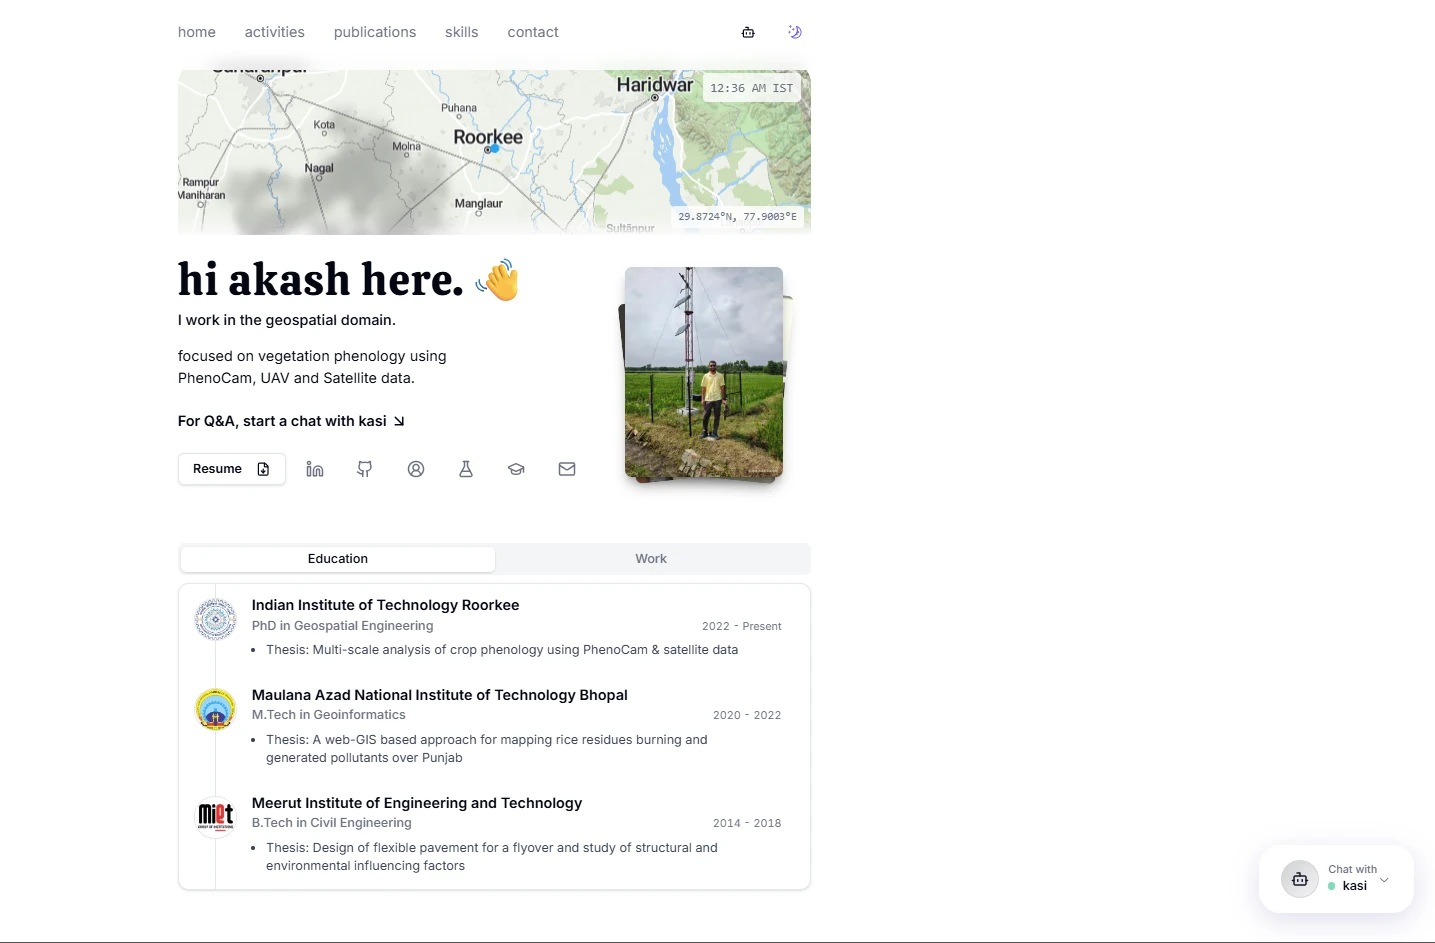
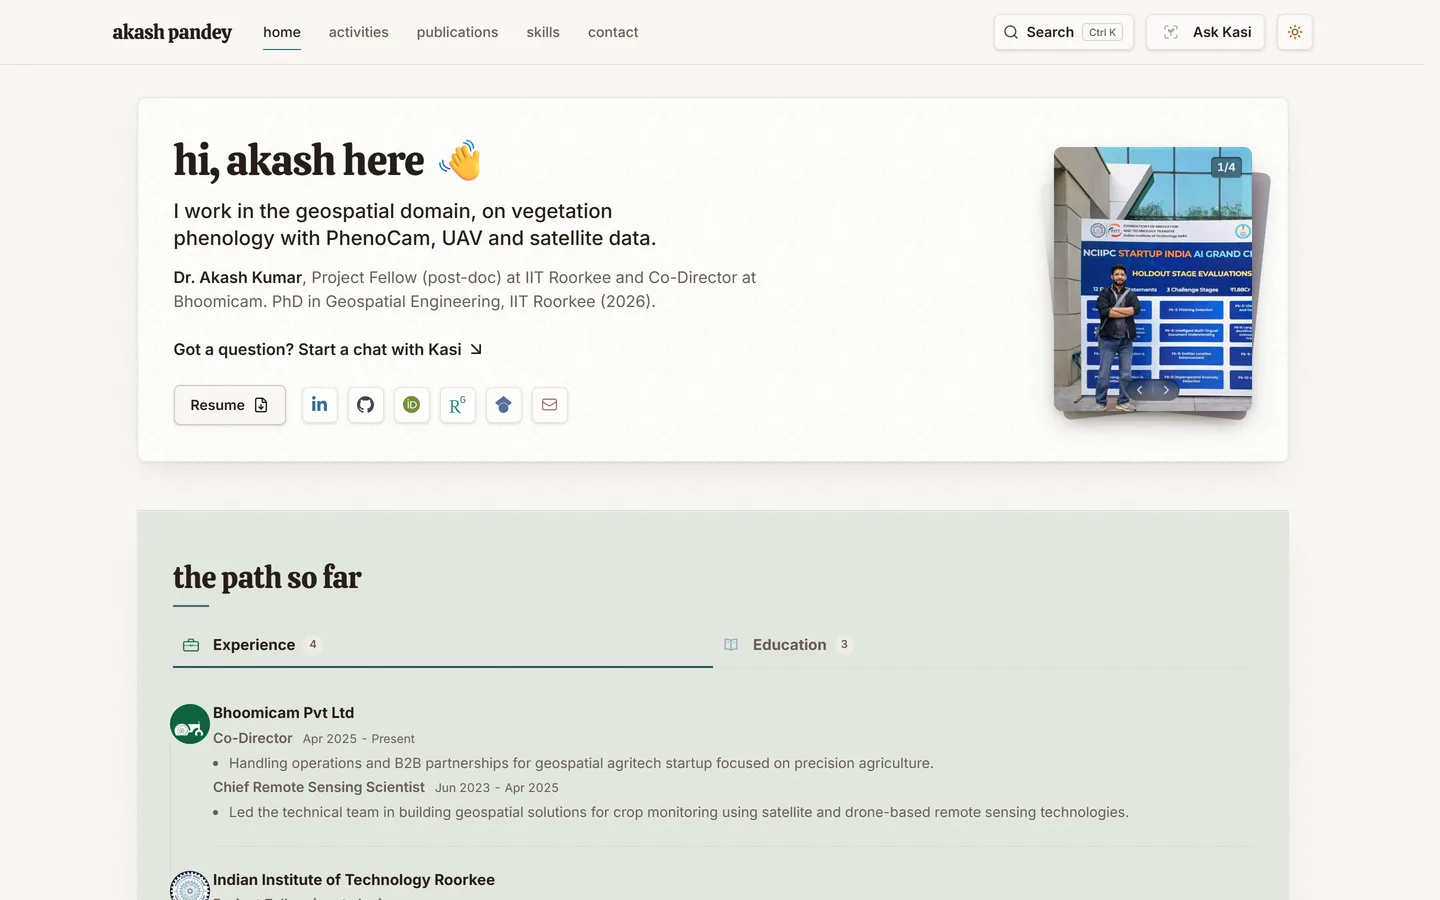
README, new screenshot and a TODO list

diff --git a/README.md b/README.md
@@ -8,23 +8,25 @@ Live at [www.akashpandey.com](https://www.akashpandey.com/)
 
 ## How it's built
 
-Next.js (App Router), React, Tailwind, TypeScript. Deployed on Vercel.
+Next.js (App Router), React, Tailwind, TypeScript. MapLibre for the contact
+map, three.js for the globe on the home page. Deployed on Vercel.
 
 Almost all the content sits in `src/data` as JSON or Markdown, and the photos
 and CV are plain files in `public`. That way I can add a paper or a field trip
 without opening a component. It's a bit old-fashioned compared to running a CMS,
-but I edit this thing at odd hours and I'd rather not manage a database for
-twenty JSON records.
+but I edit this thing at odd hours and I'd rather not manage a database for a
+hundred-odd JSON records.
 
 A few pieces that aren't obvious from the file tree:
 
-- The map on the contact page is MapLibre with OpenFreeMap vector tiles, plus
-  an Esri imagery layer behind the satellite toggle. It pins every activity,
-  school and job location alongside home, and the line it draws between you
-  and me is a great circle, not a route.
-- Kasi, the chat thing in the corner, answers from `src/data/profile.md` and
-  falls back to OpenRouter for anything it can't cover locally.
-- The contact form goes out through Resend.
+- The globe on the home page has a dot for every city I've studied, worked or
+  travelled to for work. Its land mask is baked into
+  `src/components/globe/land.ts`; rerun `node scripts/build-globe-land.mjs`
+  only if the dot grid changes.
+- The map on the contact page is MapLibre with OpenFreeMap vector tiles and Esri
+  satellite imagery underneath (on by default, there's a toggle). It pins every
+  activity, school and job location alongside home, and the line it draws
+  between you and me is a great circle, not a route.
 - The skill logos are generated. `scripts/colorize-skill-icons.mjs` builds a
   brand-coloured duotone of each one so a photo of a total station and a flat
   vector logo end up looking like they belong on the same page.
@@ -41,10 +43,10 @@ cp .env.example .env.local
 npm run dev
 ```
 
-`npm run dev` picks the first free port from 3000 up and prints it — I had
-something else squatting on 3000 for months and got tired of the collision. Set
-`PORT` if you want a specific one, or `npm run dev:lan` to reach it from your
-phone.
+`npm run dev` gets the photos and the map's worker files ready first, then picks
+the first free port from 3000 up and prints it — I had something else squatting
+on 3000 for months and got tired of the collision. Set `PORT` if you want a
+specific one, or `npm run dev:lan` to reach it from your phone.
 
 The pages all work with no keys at all. Kasi, the contact form and chat logging
 need the values listed in `.env.example`.
@@ -53,37 +55,84 @@ Before I push:
 
 ```bash
 npm run lint
+npm test          # unit tests (vitest)
 npm run build
 ```
 
-## Making it yours
+`npm run test:e2e` runs the Playwright tests on the installed Edge.
+
+## Content
 
 Fork it, then swap out:
 
-| What                         | Where                                             |
-| ---------------------------- | ------------------------------------------------- |
-| Papers, DOIs, figures        | `src/data/publications.json`                      |
-| Talks, trips, workshops      | `src/data/activities.json`                        |
-| Tools and instruments        | `src/data/skills.json`                            |
-| Timeline                     | `src/data/career.json`, `src/data/education.json` |
-| What Kasi knows about you    | `src/data/profile.md`                             |
-| Privacy page                 | `src/data/privacy.md`                             |
-| CV                           | `public/resume.pdf`                               |
-| Colours, type, paper texture | `src/app/globals.css`                             |
-
-Activity photos go in a folder under `public/`, then:
-
-```bash
-npx ts-node scripts/resolve-activity-images.ts   # rebuild the image lists
-node scripts/optimize-images.mjs                 # shrink them before committing
-```
+| What                       | Where                                             |
+| -------------------------- | ------------------------------------------------- |
+| Papers, DOIs, figures      | `src/data/publications.json`                      |
+| Talks, trips, workshops    | `src/data/activities.json`                        |
+| Places (map and globe)     | `src/data/places.json`                            |
+| Tools and instruments      | `src/data/skills.json`                            |
+| Timeline                   | `src/data/career.json`, `src/data/education.json` |
+| Home page intro, portraits | `src/data/home.json`                              |
+| Social links               | `src/data/socials.json`                           |
+| What Kasi knows about you  | `src/data/profile.md`                             |
+| Privacy page               | `src/data/privacy.md`                             |
+| CV                         | `public/resume.pdf`                               |
+| Colours, paper texture     | `src/app/globals.css`                             |
 
 Add a new skill logo to `public/skills/`, give it a `gradient` in
 `skills.json`, and run `npm run colorize-skills`.
 
 The site colours are HSL variables at the top of `globals.css`. Changing
 `--background`, `--foreground` and the four `--surface-*` values re-themes the
-whole thing.
+whole thing. Dark mode has its own set under `.dark`.
+
+### Adding an activity
+
+Easiest is to copy an existing entry in `activities.json` (anywhere in the
+file, it gets sorted by `date`). The bits that matter:
+
+- `slug` is its permanent URL (`/activities/<slug>`). Pick it once and don't
+  change it later, old links would break.
+- `place` is an id from `places.json`. If it's somewhere new, add it there with
+  a `name`, `city` and `coordinates`. Coordinates are longitude first, the
+  opposite of what Google Maps copies. `country` only if it isn't India.
+- Photos go in a folder under `public/`, and `imageFolder` points at it. They're
+  shown in number order, so I just call them `1.webp`, `2.webp` and so on.
+
+The build checks the data as it goes, so a typo in a place id fails the build
+instead of quietly dropping a pin off the map.
+
+### Photos
+
+`npm run images` puts small WebP copies of every photo into `public/_img`, plus
+a tiny blurred preview of each. It already runs before `dev` and `build`
+(`prebuild`). The output is git-ignored and cached, so after the first run it
+only redoes new or changed photos.
+
+Phone photos are huge, so before committing new ones I run
+`node scripts/optimize-images.mjs --dry-run` to see what's oversized, then again
+without the flag to shrink them (it also turns PNG/JPG logos into WebP).
+
+## Kasi and the contact form
+
+Kasi, the chat thing in the corner, is a small chatbot that answers questions
+about me and my work. It needs at least one of `CEREBRAS_API_KEY`,
+`GROQ_API_KEY`, `GEMINI_API_KEY` or `OPENROUTER_API_KEY`, and all four have
+free tiers. It tries them in that order and moves on when one is rate limited,
+down or slow. `KASI_PROVIDERS` changes the order.
+
+What it knows comes from the same data files the pages use, plus
+`src/data/profile.md` for whatever the JSON doesn't cover. Chat logs go to
+Postgres or a Google Sheet, both written up in
+[docs/chat-logging.md](docs/chat-logging.md).
+
+The contact form goes out through Resend: `RESEND_API_KEY`, `CONTACT_FROM_EMAIL`
+(needs a domain verified in Resend) and `CONTACT_TO_EMAIL`. Optional extras:
+
+- Turnstile spam check: `NEXT_PUBLIC_TURNSTILE_SITE_KEY` and
+  `TURNSTILE_SECRET_KEY`, both or neither.
+- Upstash (`UPSTASH_REDIS_REST_URL`, `UPSTASH_REDIS_REST_TOKEN`) shares the rate
+  limits across serverless instances. Vercel's Upstash integration sets them.
 
 ## Deploying
 
@@ -92,9 +141,6 @@ Push to `main` and Vercel builds it. Set the environment variables there first.
 The admin page reads `ADMIN_USERNAME`, `ADMIN_PASSWORD` and
 `ADMIN_SESSION_SECRET`. No defaults — leave them unset and every login is
 refused, which is the behaviour I wanted.
-
-Chat logging needs a database or a Google Sheet; both are written up in
-[docs/chat-logging.md](docs/chat-logging.md).
 
 Don't commit `.env.local`.
 

diff --git a/TODO.md b/TODO.md
@@ -1,0 +1,131 @@
+# TODO
+
+What's left after the September 2026 overhaul, roughly in the order I want to
+do it. Tick things off here as they get done.
+
+## First
+
+- [ ] **Faster Kasi.** It works on the existing OpenRouter key (free models,
+      ~10 s an answer). Add a free `CEREBRAS_API_KEY` (cloud.cerebras.ai) and/or
+      `GEMINI_API_KEY` (aistudio.google.com/apikey) in Vercel → Settings →
+      Environment Variables, then redeploy. Cerebras answers in a second or two.
+      Order is set by `KASI_PROVIDERS` (default `cerebras,groq,gemini,openrouter`).
+- [ ] After the deploy, click through once: home (hero, globe at the bottom),
+      `/activities`, one activity page, `/publications`, `/skills`, `/contact`
+      (map, popups, satellite toggle), Kasi, and the search (`Ctrl K` or `/`).
+- [ ] Turn on Speed Insights in the Vercel dashboard if it isn't already (the
+      code is in now). The old `vercel/install-vercel-speed-insights-…` branch
+      can then be deleted.
+
+## Content only I can fix
+
+- [ ] **NRSC Offline Coding Challenge** (`activities.json`): dated
+      `2026-01-28`, but the text says 03 June – 06 July 2025. Which is right?
+- [ ] **IN-SPACe Industry Connect 2026** has no "With:" line.
+- [ ] Activity write-ups switch between "I", "We" and no subject (16 / 11 / 6
+      of 33). Pick one voice and go through them.
+- [ ] iGIS isn't in `skills.json`, so it doesn't show on the skills page or in
+      Kasi's answers. Add it if it should.
+- [ ] Resume PDF and the profiles (LinkedIn, ORCID, Scholar, ResearchGate):
+      use "Dr. Akash Kumar" like the site.
+- [ ] 166 photos in `public/` are bigger than they need to be (~91 MB).
+      `node scripts/optimize-images.mjs --dry-run` lists them; without the
+      flag it re-encodes them (lossy, so look at a few before committing).
+
+## Check by hand in a browser
+
+The Playwright tests (`npm run test:e2e`) cover the basics on desktop and
+phone sizes; these need eyes:
+
+- [ ] Deep links: `/activities#nasa-space-apps-2024` and the old style
+      `/activities#activity-12` land on the card and highlight it, including
+      on a phone and with filters active.
+- [ ] Map: Tab in from the contact form: the "Skip the map" link shows up and
+      jumps past the pins. Theme and imagery toggles while tiles are still
+      loading. "Locate me" draws the line.
+- [ ] Map deep links from the globe: `/contact?city=vienna#map`,
+      `/contact?place=iit-roorkee#map` open at the right place with the popup.
+- [ ] Globe on a real phone: a sideways swipe turns it, an up/down swipe still
+      scrolls the page, tapping a dot selects that city, and it stays smooth on
+      a mid-range phone.
+- [ ] Search palette on a Mac shows ⌘K; try a paper title, a tool alias
+      (e.g. "UAV"), a city.
+- [ ] Kasi on a phone: keyboard doesn't cover the input, Hindi typing works,
+      "Clear chat" works, answers link to the right pages.
+
+## Code
+
+- [ ] Prettier pass: `npx prettier --write .` touches ~76 files (class order,
+      line breaks). Do it as its own "Format" commit so it doesn't bury real
+      changes.
+- [ ] The home page `<h1>` is the greeting ("hi, akash here"); the name is
+      in the title and the structured data. That's on purpose; revisit only if
+      name searches suffer.
+- [ ] Content-Security-Policy: only the parts that can't block anything are
+      set (`base-uri`, `form-action`, `frame-ancestors`, `object-src`). A full
+      policy needs per-request nonces, which would make the static pages
+      dynamic.
+- [ ] MapLibre 6 downloads its shared module twice on `/contact` (page +
+      worker). Revisit when Turbopack can bundle the worker.
+- [ ] `npx tsc` got slow (~3 min) since `@types/three`. Live with it or look
+      at project references.
+- [ ] The free model list in `src/lib/chat-providers.ts` goes stale every few
+      weeks. `openrouter/free` covers it, but check
+      `https://openrouter.ai/api/v1/models` (price 0) now and then.
+- [ ] Globe: markers around Roorkee/Delhi overlap; maybe smaller dots or a
+      closer camera on India. The land mask stops at ±84°, so Antarctica is
+      patchy (not visible in normal use).
+- [ ] View Transitions from activity cards into activity pages, once Next's
+      `viewTransition` flag is stable.
+- [ ] Go through the security/admin and code-health parts of the old audit
+      once more (sections H and I); everything else is done apart from the
+      content items above.
+
+## SEO
+
+- [ ] Google Search Console: verify the domain, submit `/sitemap.xml`, and
+      after a few days look at the Breadcrumbs, Events and Profile page
+      reports. Import the site into Bing Webmaster Tools from there.
+- [ ] Rich Results Test on `/`, one activity and one publication page.
+- [ ] Papers that are published or accepted now carry Google Scholar
+      `citation_*` tags. Check in a few weeks that Scholar lists the site as a
+      version.
+- [ ] Put https://www.akashpandey.com in the website field on ORCID, Google
+      Scholar, ResearchGate, LinkedIn and GitHub.
+- [ ] Some activities are field visits rather than events; maybe `Article`
+      instead of `Event` in the structured data for those.
+
+## Settings in Vercel
+
+- [ ] `ADMIN_SESSION_SECRET`: 32+ random characters. Changing
+      `ADMIN_SESSION_VERSION` signs every admin session out.
+- [ ] Update the Apps Script for the chat log sheet to the version in
+      `docs/chat-logging.md` (read/reset over POST with the token, formula
+      guard, retention). The admin page still falls back to the old read.
+- [ ] Optional: Upstash (`UPSTASH_REDIS_REST_URL` / `_TOKEN`) so rate limits
+      hold across serverless instances; Turnstile keys for the contact form.
+- [ ] If the chat logs ever move to Supabase Postgres, add
+      `?sslmode=no-verify` to the URL (TLS is verified by default; Neon is
+      fine as is).
+
+## Done recently
+
+- Activities: permanent URLs (`/activities/<slug>`) with their own pages;
+  old `#activity-N` links still work; filters live in the URL.
+- Photos: pre-sized WebP with blur previews; only the hero photo is preloaded.
+- Map: clustered pins, one popup per place, working toggles, deep links from
+  the globe, MapLibre 6, and its styles actually apply now.
+- Kasi: whole profile plus generated facts, streaming, free providers with
+  fallback (Cerebras, Groq, Gemini, OpenRouter).
+- Home: "hi, akash here" heading, "Dr. Akash Kumar" line, 3D globe of the
+  22 cities with a step-through tour.
+- Search palette (`Ctrl K`, `⌘K` or `/`) over pages, activities, papers,
+  tools and roles.
+- SEO: preview images, structured data, Scholar tags, RSS
+  (`/activities/feed.xml`), `/llms.txt`, image sitemap.
+- Security: Next 16.3.6, sharp 0.35.5, MapLibre 6.11.2 (npm audit clean);
+  extra headers; Speed Insights (cookieless).
+- Accessibility: axe scans clean on the main pages; focus ring, selection and
+  scrollbar colours; underlined map credits.
+- Tests: 52 unit tests (`npm test`), 20 end-to-end tests on desktop and
+  phone sizes (`npm run test:e2e`).
